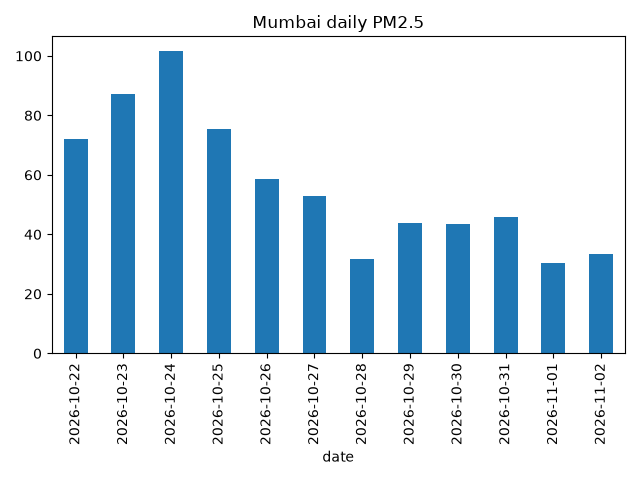
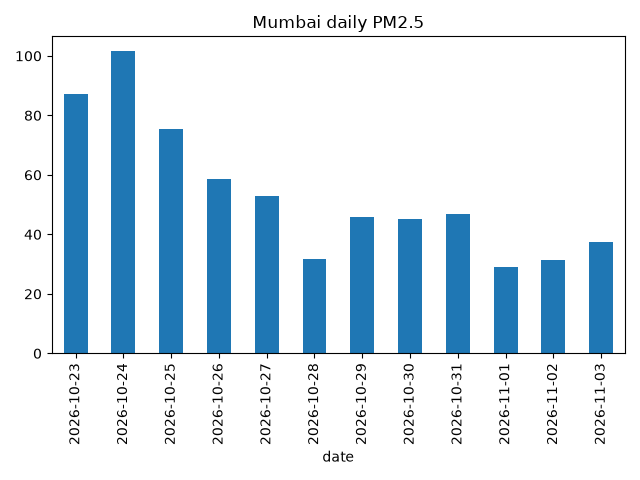
Daily update

diff --git a/report.md b/report.md
@@ -1,13 +1,13 @@
-# Mumbai Air Quality Report (2026-10-29)
+# Mumbai Air Quality Report (2026-10-30)
 
-*Note: Values from October 30, 2026, onwards are forecasted estimates, not actual readings.*
+*Note: Values from 2026-10-31 to 2026-11-03 are forecasted projections, not actual recorded readings.*
 
 **1) Most Polluted Day**
-October 24, 2026 (PM2.5: 101.5 ug/m3, PM10: 112.6 ug/m3).
+* **2026-10-24** was the most polluted day, reaching peak values of **101.5 µg/m³ for PM2.5** and **112.6 µg/m³ for PM10**.
 
 **2) Trend**
-Actual levels peaked on October 24, dropped significantly to a low on October 28, and picked up slightly today (October 29). Forecasts project mild fluctuations through October 31 followed by a drop to lower levels on November 1–2.
+Air pollution peaked on October 24, followed by a steep overall decline through October 28. Levels stabilized between October 29 and October 30 (PM2.5: 45.3–45.9 µg/m³). The forecast indicates a brief, slight increase on October 31 before dropping to lower levels from November 1 to November 3 (PM2.5: 29.0–37.5 µg/m³).
 
 **3) Recommendation**
-Limit outdoor activities during days with elevated PM levels (such as October 23–25). 
-Track daily readings against the forecasted decline in early November to safely schedule outdoor exposure.
+Schedule non-essential outdoor activities for the coming days (Nov 1–Nov 3) when forecasted particulate levels are lower.
+Maintain indoor air filtration or wear protective masks if sensitive to air quality during periods exceeding 50 µg/m³ PM2.5.
